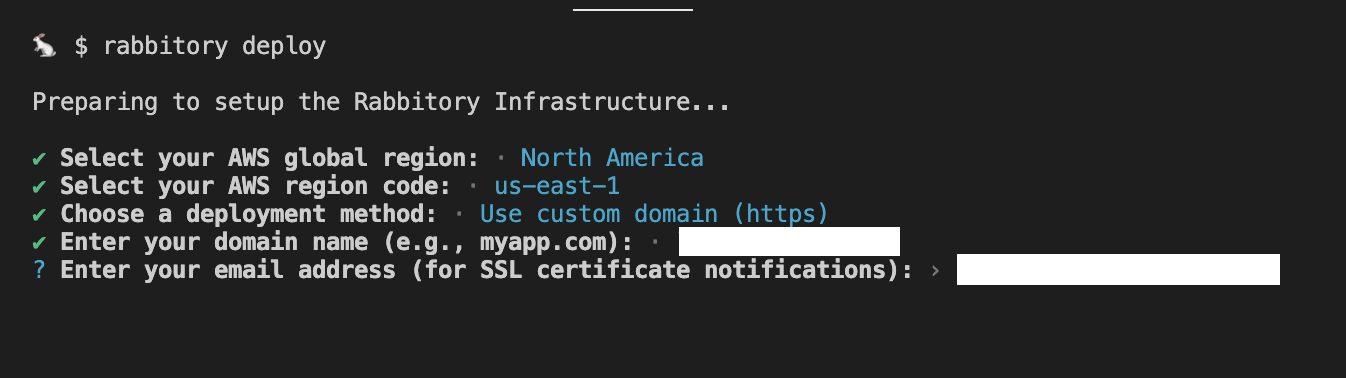
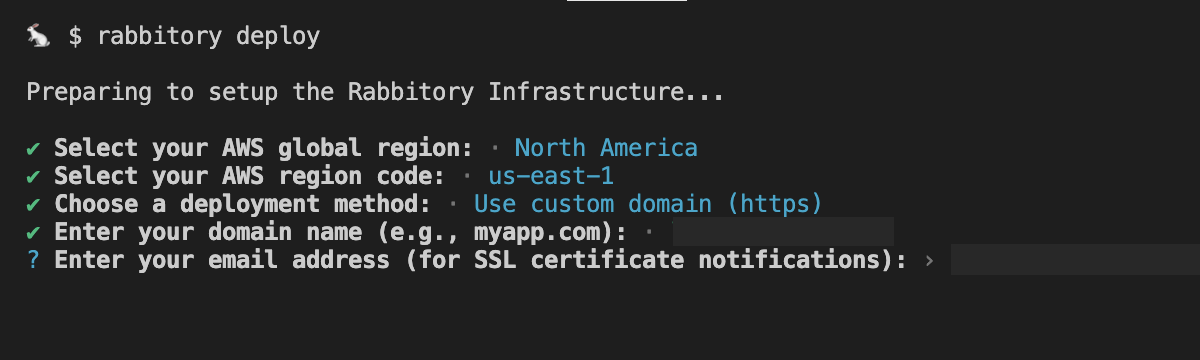
Crop some photos

diff --git a/README.md b/README.md
@@ -91,7 +91,7 @@ If you opt to use a custom domain, you’ll be prompted to provide your domain n
   <img src="https://raw.githubusercontent.com/Rabbitory/rabbitory_cli/main/assets/select-http-or-https.png" alt="select-http-or-https" width="80%" />
 </p>
 <p align="left">
-  <img src="https://raw.githubusercontent.com/Rabbitory/rabbitory_cli/main/assets/provide-custom-domain.png" alt="provide-custom-domain" width="80%" />
+  <img src="https://raw.githubusercontent.com/Rabbitory/rabbitory_cli/main/assets/provide-custom-domain.png" alt="provide-custom-domain" />
 </p>
 
 - Create Route 53 records for both your apex domain and www subdomain
